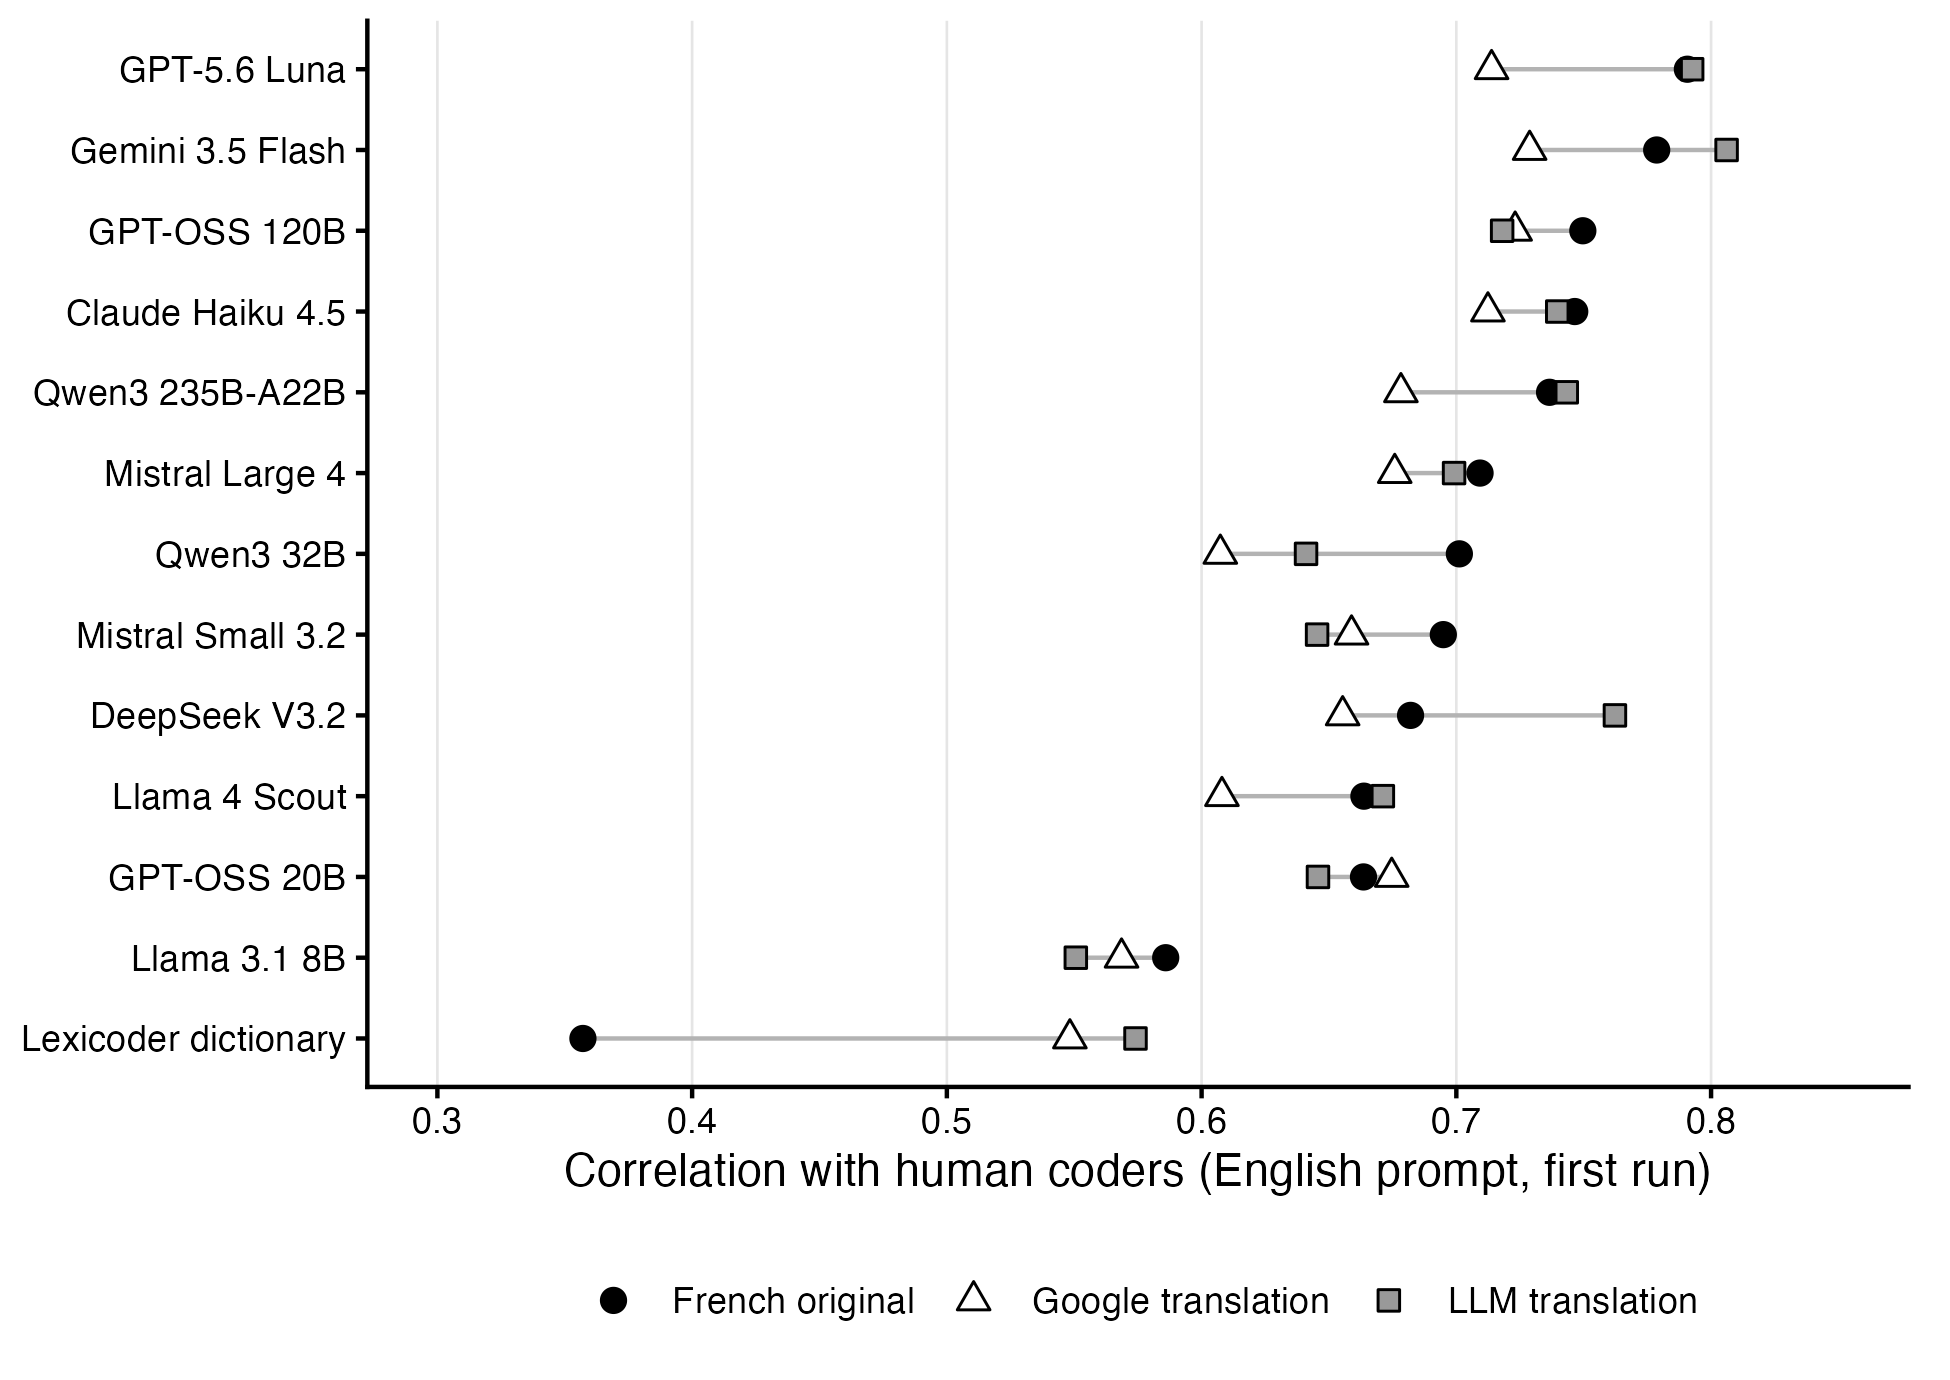
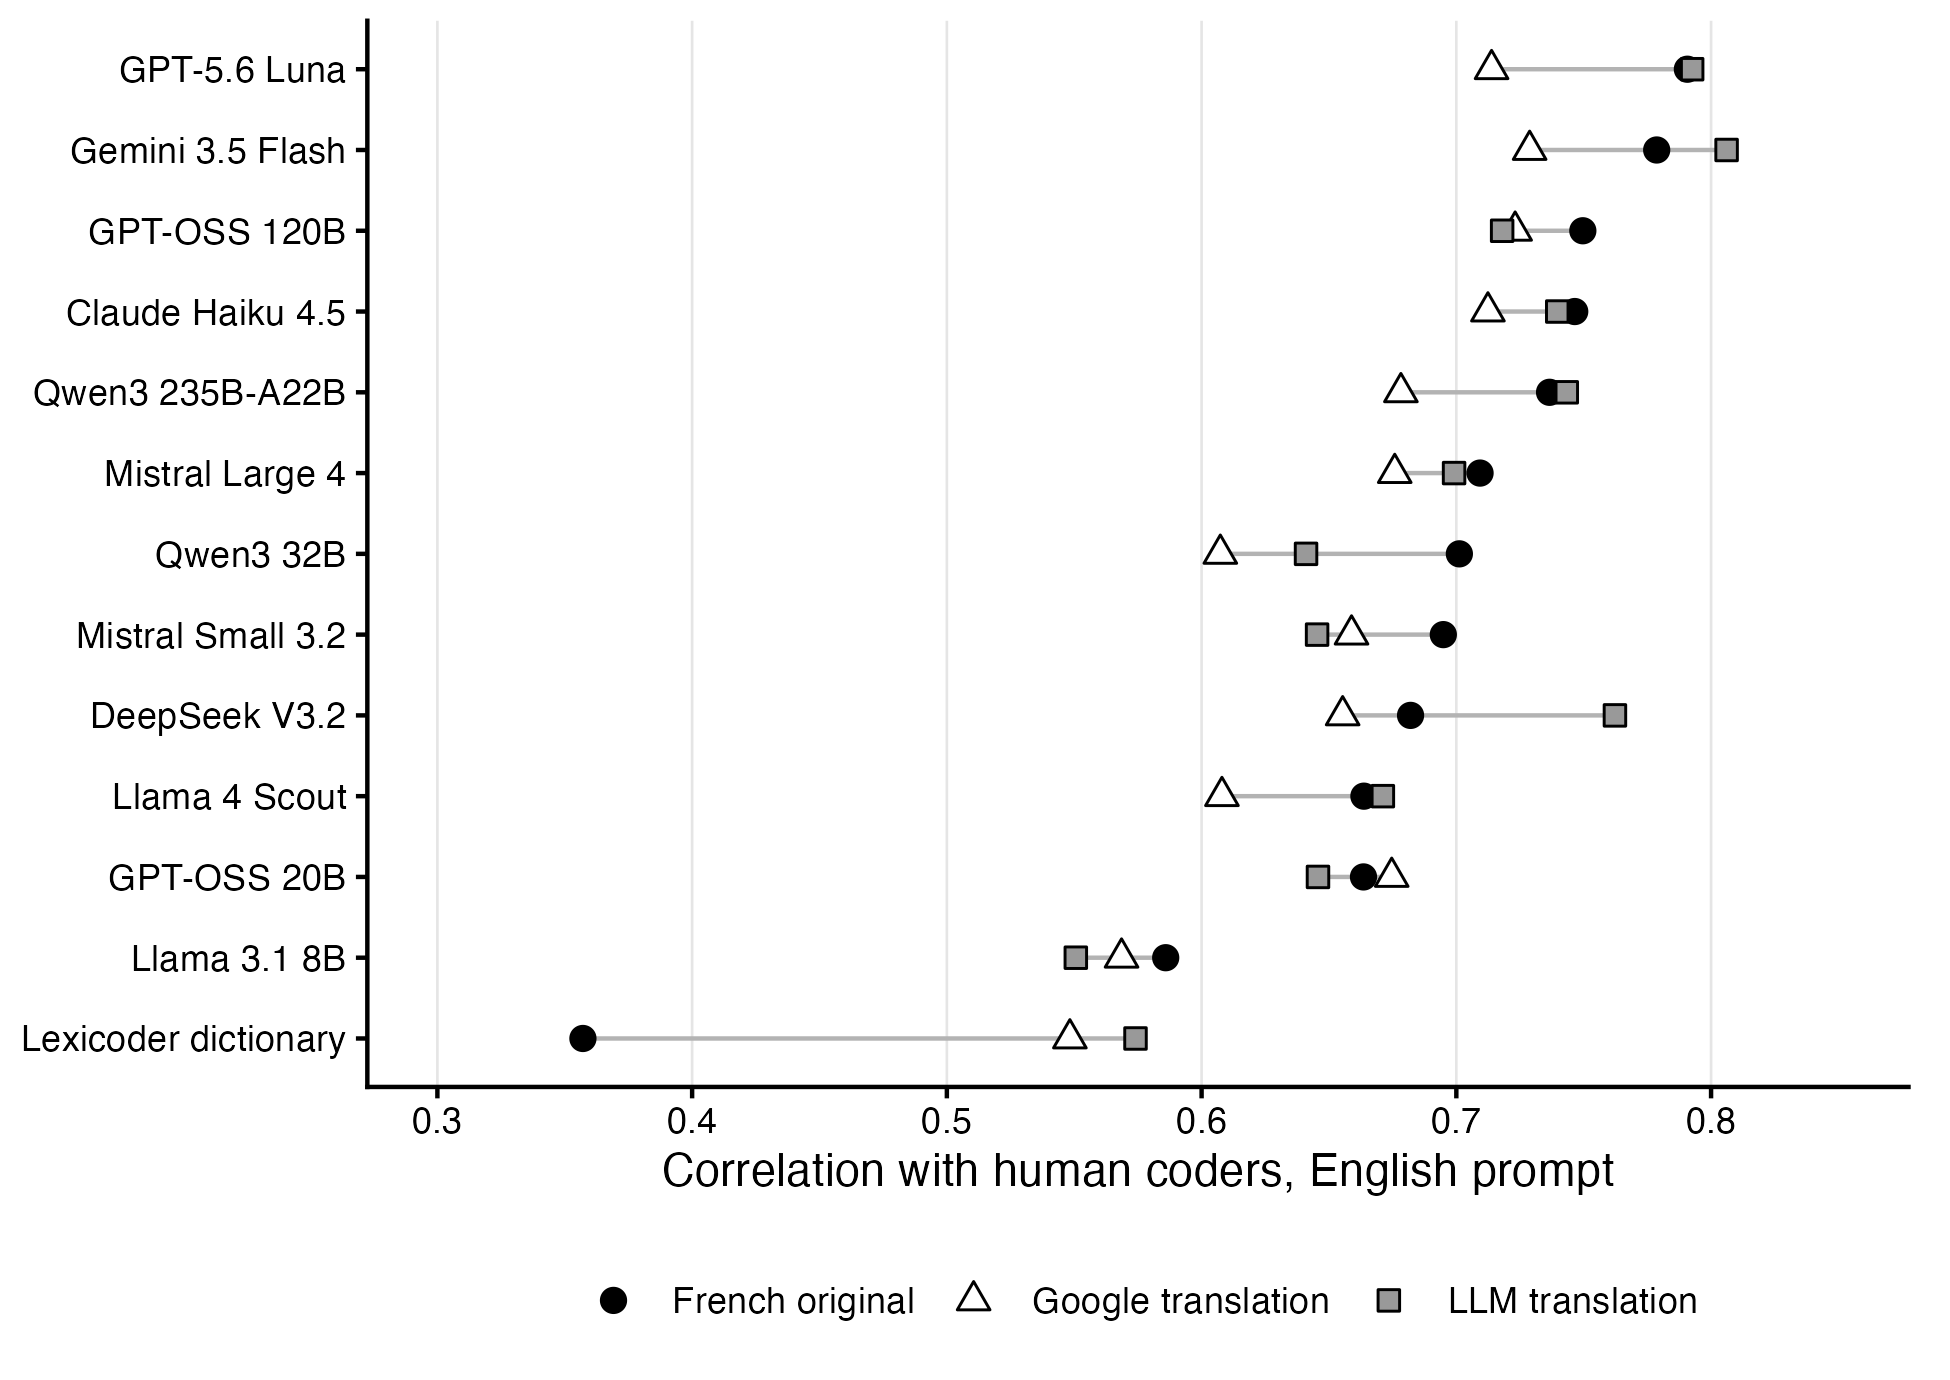
Figure 1 : les trois conditions (H1 et H2) ; tableau 2 plus lisible

Changed region(s): [[0.3077, 0.8413, 0.8923, 0.8725]]

diff --git a/results/tables/table2_tests.md b/results/tables/table2_tests.md
@@ -1,14 +1,14 @@
-| Comparison | Metric | Difference | 95% CI | *p* | *p* equivalence |
-|:--------------------------|:------------------|------:|:----------------|------:|------:|
-| Prompt language (FR→FR − EN→FR) | Correlation | -0.005 | [-0.017, 0.007] | .387 | < .001 |
+| Comparison | Metric | Difference | 95% CI | *p* | *p* (equivalence) |
+|:------------------|:-----------------|---------:|:----------------|------:|-------:|
+| Prompt language | Correlation | -0.005 | [-0.017, 0.007] | .387 | < .001 |
 |  | MAE | 0.000 | [-0.009, 0.010] | .973 | < .001 |
 |  | F1, 3 categories | 0.008 | [-0.004, 0.020] | .169 | < .001 |
 |  | F1, 7 categories | 0.010 | [-0.017, 0.037] | .427 | .004 |
-| Translation (EN→FR − EN→EN) | Correlation | 0.043 | [0.028, 0.057] | < .001 | .147 |
+| Translation | Correlation | 0.043 | [0.028, 0.057] | < .001 | .147 |
 |  | MAE | 0.002 | [-0.005, 0.009] | .624 | < .001 |
 |  | F1, 3 categories | 0.038 | [0.018, 0.059] | .002 | .125 |
 |  | F1, 7 categories | -0.001 | [-0.029, 0.026] | .913 | .001 |
-| Complete workflows (FR→FR − EN→EN) | Correlation | 0.038 | [0.018, 0.058] | .001 | .103 |
+| Complete workflows | Correlation | 0.038 | [0.018, 0.058] | .001 | .103 |
 |  | MAE | 0.002 | [-0.008, 0.012] | .705 | < .001 |
 |  | F1, 3 categories | 0.046 | [0.021, 0.072] | .002 | .378 |
 |  | F1, 7 categories | 0.009 | [-0.013, 0.030] | .392 | < .001 |
